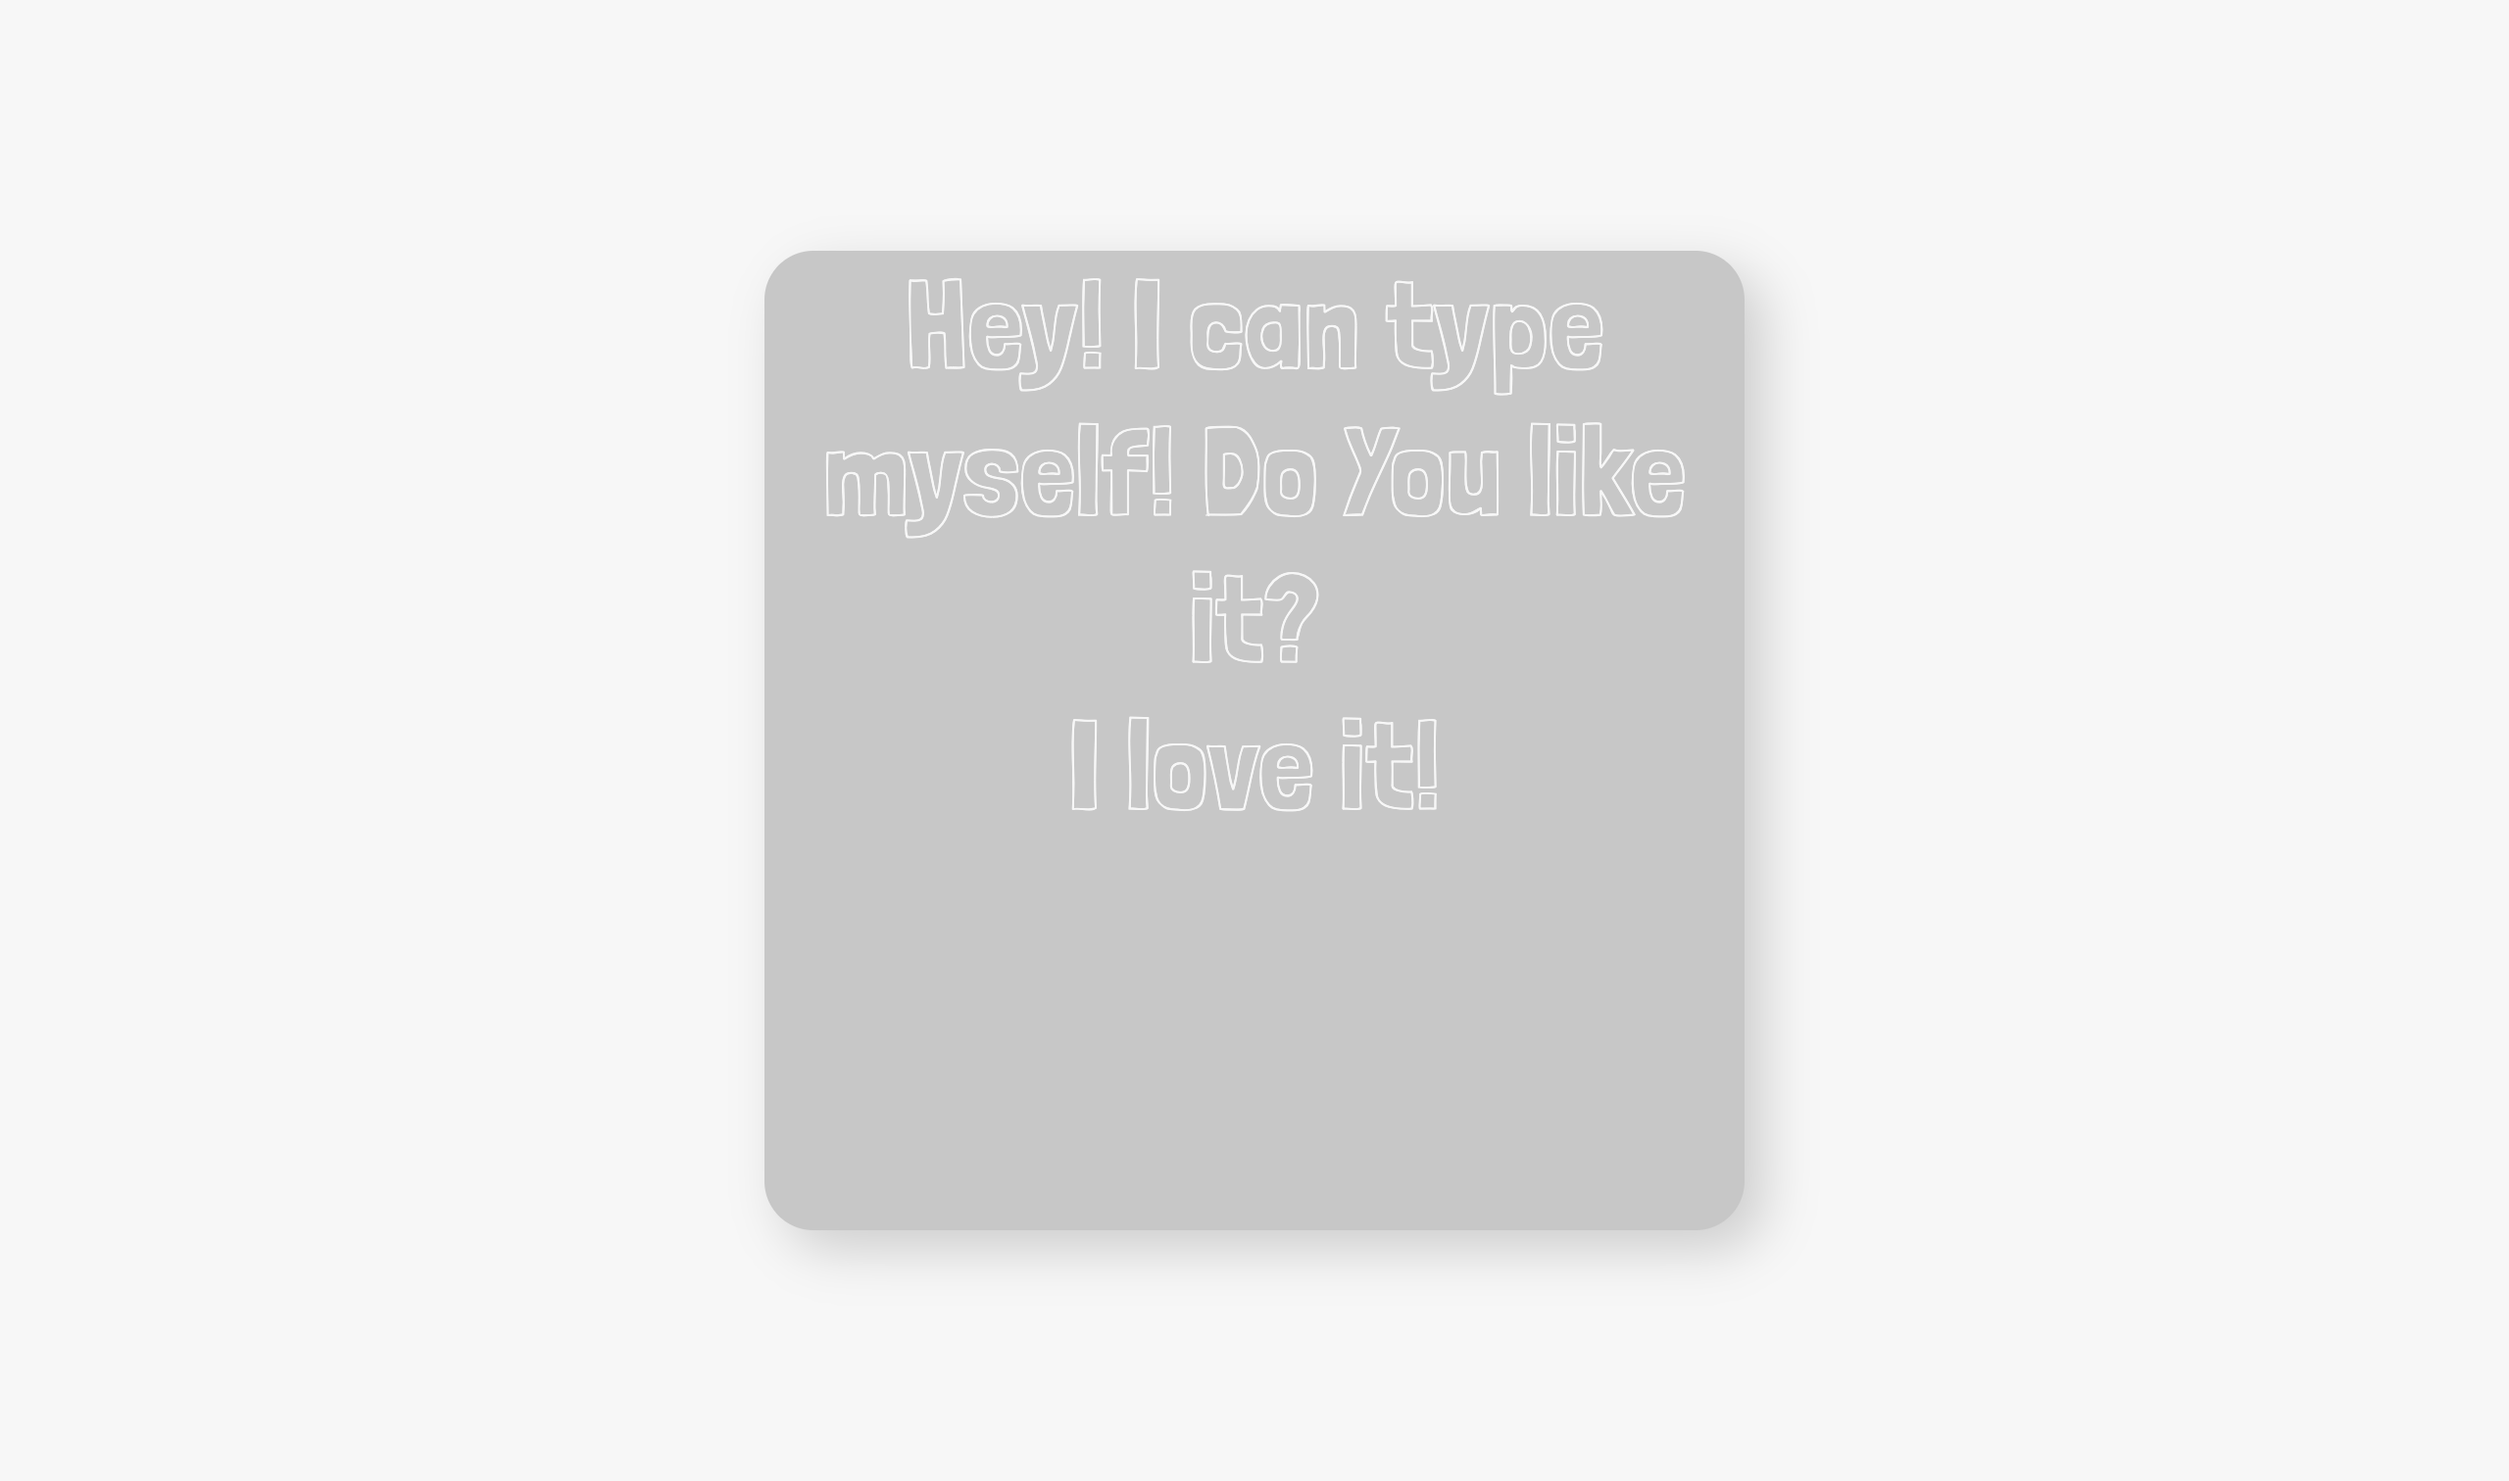
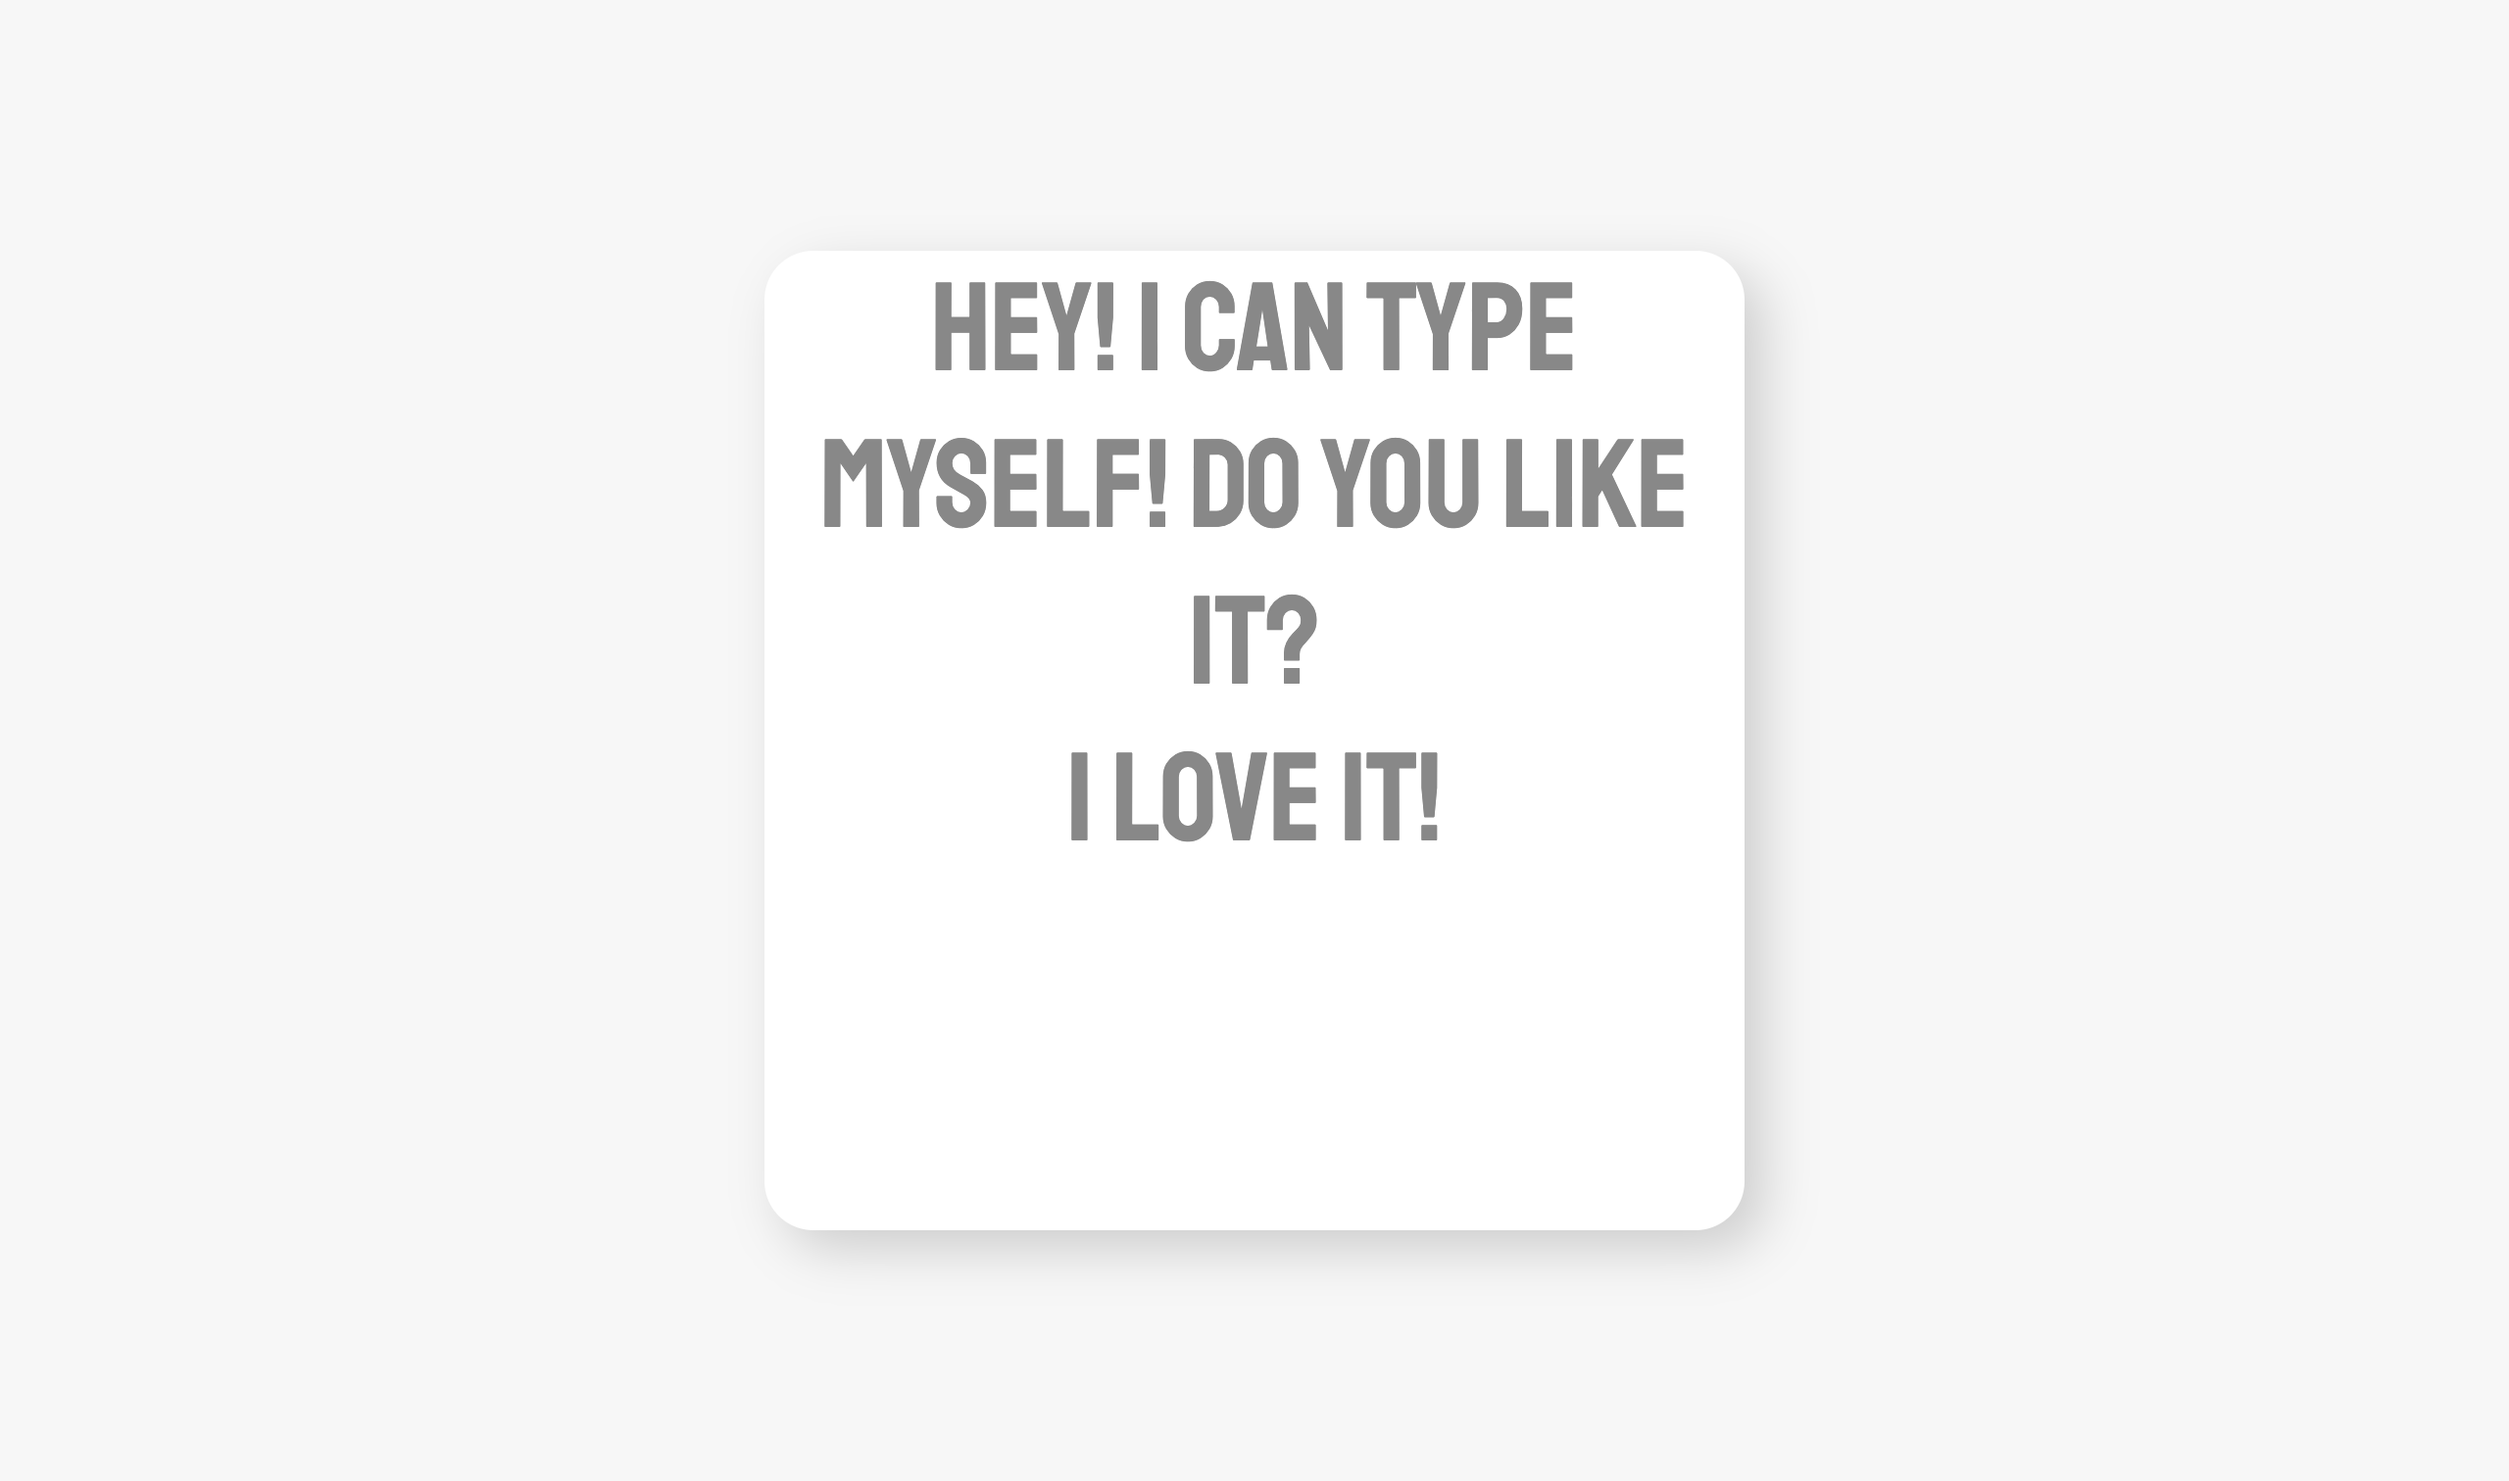
Css fix

Changed region(s): [[0.2812, 0.1554, 0.7188, 0.8393]]

diff --git a/scss/main.scss b/scss/main.scss
@@ -3,10 +3,10 @@
 }
 
 body {
-  font-family: "Londrina Outline", sans-serif !important;
+  font-family: 'Staatliches', sans-serif !important;
   font-weight: normal;
   background: #f7f7f7;
-  color: #f7f7f7;
+  color: #888888;
   margin: 10% auto;
   text-align: center;
   font-size: 2em;
@@ -19,7 +19,7 @@ body {
   min-width: 320px;
   margin: 0 auto;
   border-radius: 5%;
-  background-color: #c7c7c7;
+  background-color: #ffffff;
   -webkit-box-shadow: 10px 10px 26px 0px rgba(0,0,0,0.17);
   -moz-box-shadow: 10px 10px 26px 0px rgba(0,0,0,0.17);
   box-shadow: 10px 10px 26px 0px rgba(0,0,0,0.17);

diff --git a/docs/app.css b/docs/app.css
@@ -2,10 +2,10 @@
   font-size: 2rem; }
 
 body {
-  font-family: "Londrina Outline", sans-serif !important;
+  font-family: 'Staatliches', sans-serif !important;
   font-weight: normal;
   background: #f7f7f7;
-  color: #f7f7f7;
+  color: #888888;
   margin: 10% auto;
   text-align: center;
   font-size: 2em; }
@@ -17,7 +17,7 @@ body {
   min-width: 320px;
   margin: 0 auto;
   border-radius: 5%;
-  background-color: #c7c7c7;
+  background-color: #ffffff;
   box-shadow: 10px 10px 26px 0px rgba(0, 0, 0, 0.17); }
 
 @media all and (max-width: 800px) {

diff --git a/docs/index.html b/docs/index.html
@@ -4,7 +4,7 @@
     <meta charset="UTF-8">
     <meta name="viewport" content="width=device-width, initial-scale=1.0">
     <title>TypingText by dyminki</title>
-    <link href="https://fonts.googleapis.com/css?family=Londrina+Outline" rel="stylesheet">
+    <link href="https://fonts.googleapis.com/css?family=Staatliches&display=swap" rel="stylesheet">
 <link href="app.css" rel="stylesheet"></head>
 <body>
     <div id="app"></div>

diff --git a/index.html b/index.html
@@ -4,7 +4,7 @@
     <meta charset="UTF-8">
     <meta name="viewport" content="width=device-width, initial-scale=1.0">
     <title>TypingText by dyminki</title>
-    <link href="https://fonts.googleapis.com/css?family=Londrina+Outline" rel="stylesheet">
+    <link href="https://fonts.googleapis.com/css?family=Staatliches&display=swap" rel="stylesheet">
 </head>
 <body>
     <div id="app"></div>
